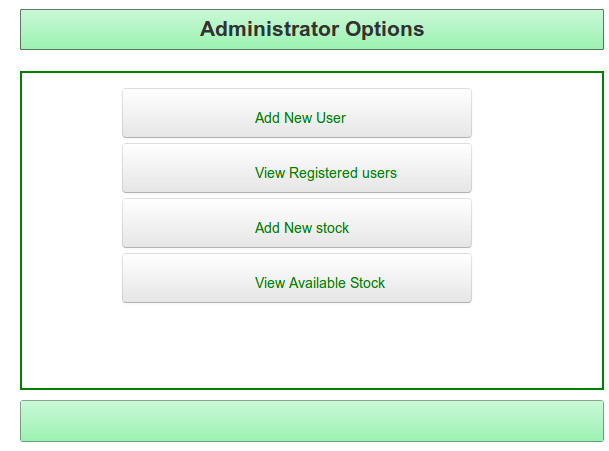
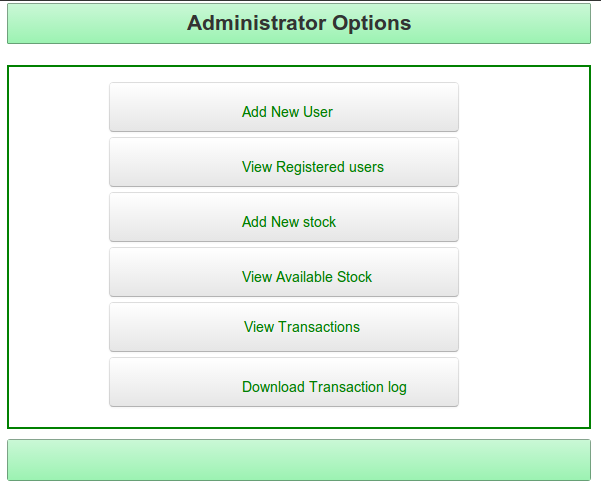
final project with changes

diff --git a/app/controllers/items_controller.rb b/app/controllers/items_controller.rb
@@ -34,22 +34,9 @@ class ItemsController < ApplicationController
               @cart_item = CartItem.create!(:cart => initialize_cart, :items_id => items.id, :name=>items.name, :quantity => $quantity, :price => items.price, :subtotal=>$quantity.to_i*items.price.to_i)
               #update the items table
               Items.update(items.id, :quantity => items.quantity.to_i-$quantity.to_i)
-              #create / open log file and write to it
-              logger = Logger.new(File.join(Rails.root, '/public/transaction.log'))
-              loggerinfo = File.open(File.join(Rails.root, '/public/transaction.log'), 'r')
-              if loggerinfo == nil              
-                logger.info("Item   |   Quantity  |  Unit Price   |  Total    |   Cashier")
-                logger.info("------------------------------------------------------------")
-
-                logger.info(items.name.to_s+"    |   "+$quantity.to_s+"    |   "+items.price.to_s+"    |   "+$total.to_s)
-                 logger.close
-              else
-                logger.info(items.name.to_s+"    |   "+$quantity.to_s+"    |   "+items.price.to_s+"    |   "+($quantity.to_i*items.price.to_i).to_s)
-                puts " hhaa"
-                logger.close
-              end
-                #flash message for the view
-                flash[:notice] = "Added #{items.name} to cart."
+              #record transactions into  table
+              @transactions = Transactions.create!(:name=>items.name, :quantity => $quantity, :price => items.price, :subtotal=>$quantity.to_i*items.price.to_i)
+              flash[:notice] = "Added #{items.name} to cart."
             end
 
           else
@@ -81,11 +68,6 @@ class ItemsController < ApplicationController
     redirect_to items_path
   end
 
-
-  def autocomplete
-    render json: Items.search(params[:query], fields: [{name: :text_start}], limit: 10).map(&:name)
-  end
-
   #display items
   def show
     @items=Items.all
@@ -99,6 +81,10 @@ class ItemsController < ApplicationController
   #display items
   def view_stock
     @items=Items.all
+  end
+
+   def view_transactions
+    @transactions = Transactions.all
   end
 
   #create new item and add it to database
@@ -122,7 +108,7 @@ class ItemsController < ApplicationController
   @item = Items.find(params[:id])
   if @item.destroy
     flash[:notice] = "Item deleted"
-      redirect_to items_view_stock_path
+      redirect_to view_stock_path
   else
     flash[:notice1] = "Failed to delete Item"
   end

diff --git a/features/step_definitions/login_steps.rb b/features/step_definitions/login_steps.rb
@@ -4,8 +4,8 @@ require File.expand_path(File.join(File.dirname(__FILE__), "..", "support", "pat
 #===========================================
 Given(/^they fill in the login form$/) do
   visit users_path
-  fill_in('username', :with => "joan")
-  fill_in('password', :with => "zxcvbnm")
+  fill_in('username', :with => "sheila")
+  fill_in('password', :with => "asdfghjkl")
   click_button "Log in"
 end
 
@@ -15,7 +15,6 @@ end
 Given(/^I fill in the item form$/) do
   visit items_path
   fill_in('item_search', :with => "soda")
-  #fill_in('quantity', :with => 2)
   click_button "Add To Cart"	
 end
 
@@ -36,7 +35,7 @@ end
 
 Given(/^I fill in the new stock form$/) do
   visit new_item_path
-  fill_in('items_name', :with => "apple")
+  fill_in('items_name', :with => nil)
   fill_in('items_price', :with => 700)
   fill_in('items_quantity', :with => 25)
   click_button "Add Item"	

diff --git a/config/routes.rb b/config/routes.rb
@@ -9,17 +9,15 @@ Myapp::Application.routes.draw do
   post "admin/new"
   get "log_out" => "users#logout", :as => "log_out"
   get "help" => "admin#help", :as => "help"
-  post "users/view_user"
-  post "items/view_stock"
+  get "view_user" => "users#view_user", :as => "view_user"
+  get "view_stock"=>"items#view_stock", :as =>"view_stock"
   post "items/cart_item"
   post "items/new_sale"
   post "items/transact"
-  post "admin/read_log"
-  post "admin/download_file"
   get "admin/show"
+  get "view_transactions" => "items#view_transactions", :as =>"view_transactions"
   #delete 'destroy' => 'items#destroy'
 
-  get "items/autocomplete"
 
   #get 'users/autocomplete_brand_name'
   #get 'items/autocomplete_brand_name', :on => :collection

diff --git a/db/schema.rb b/db/schema.rb
@@ -11,7 +11,7 @@
 #
 # It's strongly recommended that you check this file into your version control system.
 
-ActiveRecord::Schema.define(version: 20140428212652) do
+ActiveRecord::Schema.define(version: 20140803094144) do
 
   create_table "cart_items", force: true do |t|
     t.integer  "items_id"
@@ -33,6 +33,15 @@ ActiveRecord::Schema.define(version: 20140428212652) do
     t.string   "name"
     t.integer  "price"
     t.integer  "quantity"
+    t.datetime "created_at"
+    t.datetime "updated_at"
+  end
+
+  create_table "transactions", force: true do |t|
+    t.string   "name"
+    t.integer  "price"
+    t.integer  "quantity"
+    t.integer  "subtotal"
     t.datetime "created_at"
     t.datetime "updated_at"
   end

diff --git a/app/controllers/admin_controller.rb b/app/controllers/admin_controller.rb
@@ -16,18 +16,6 @@ class AdminController < ApplicationController
   def help
   end
 
-  #read transaction log file
-  def read_log
-    send_data(File.open(File.join(Rails.root, '/public/transaction.log'), 'r').read,:type => 'text/plain', :disposition => 'attachment', :filename => 'transaction.log')
-    
-
-  end
-
-  def download_file
-    send_data(File.open(File.join(Rails.root, '/public/transaction.log'), 'r').read,:type => 'text/plain', :disposition => 'attachment', :filename => 'transaction.log')
-
-  end
-
   #create new system user
 	def create
     @user = User.new(params[:user].permit(:username, :role, :password, :password_confirmation))

diff --git a/db/migrate/20140803094144_create_transactions.rb b/db/migrate/20140803094144_create_transactions.rb
@@ -1,12 +1,12 @@
-class CreateItems < ActiveRecord::Migration
+class CreateTransactions < ActiveRecord::Migration
   def change
-    create_table :items do |t|
+    create_table :transactions do |t|
     	t.string :name
     	t.integer :price
     	t.integer :quantity
     	t.integer :subtotal
 
-      	t.timestamps
+      t.timestamps
     end
   end
 end

diff --git a/app/controllers/users_controller.rb b/app/controllers/users_controller.rb
@@ -68,7 +68,7 @@ def destroy
   @user.destroy
   flash[:notice] = 'Deleted User '+ @user.username
   
-  redirect_to users_view_user_path
+  redirect_to view_user_path
 
 end
 

diff --git a/spec/models/transactions_spec.rb b/spec/models/transactions_spec.rb
@@ -1,0 +1,5 @@
+require 'rails_helper'
+
+RSpec.describe Transactions, :type => :model do
+  pending "add some examples to (or delete) #{__FILE__}"
+end

diff --git a/app/models/transactions.rb b/app/models/transactions.rb
@@ -1,0 +1,2 @@
+class Transactions < ActiveRecord::Base
+end
